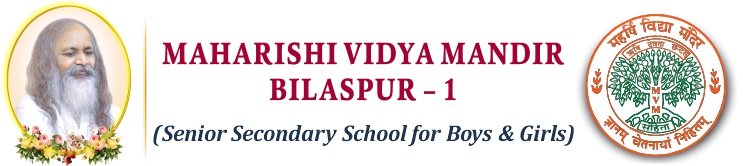
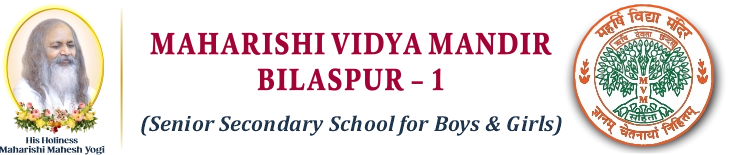
update all files

diff --git a/index.html b/index.html
@@ -96,7 +96,7 @@
                     <div class="header-left">
                         <div class="header-logo-wrapper">
                             <div class="header-logo">
-                                <a href="index.html"><img src="assets/images/mvmbilaspur/742 x 165.webp" alt="logo"></a>
+                                <a href="index.html"><img src="assets/images/mvmbilaspur/MVMBilaspur1NEW.webp" alt="logo"></a>
                             </div>
                         </div>
                         <div class="header-menu">
